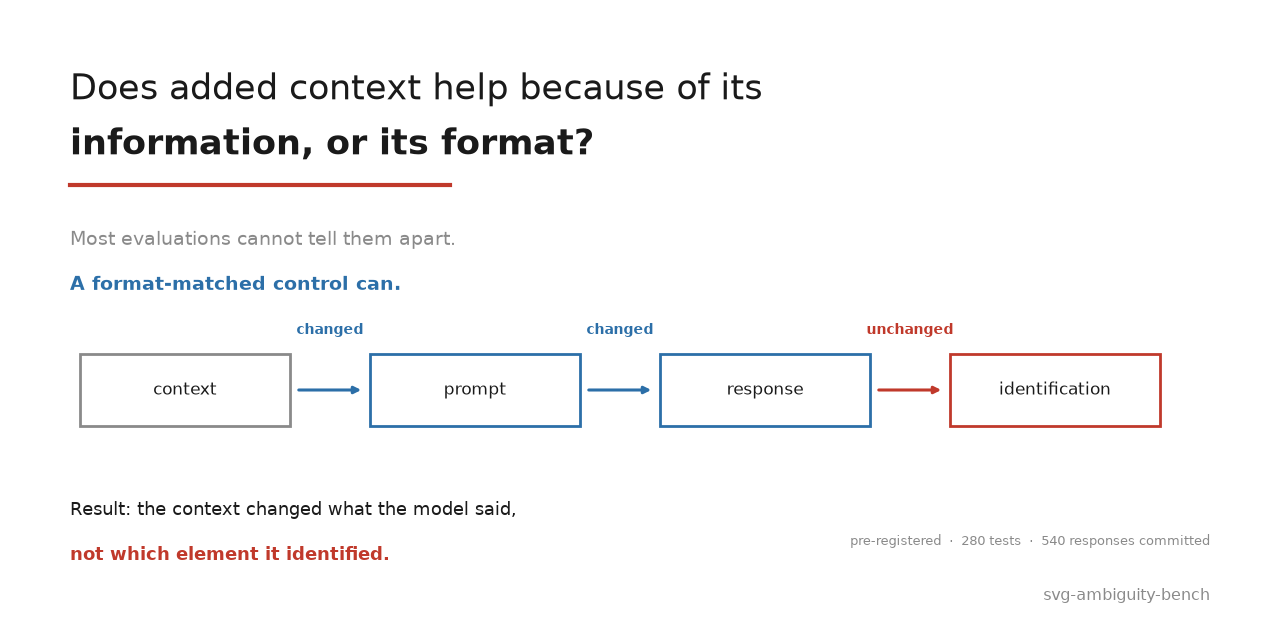
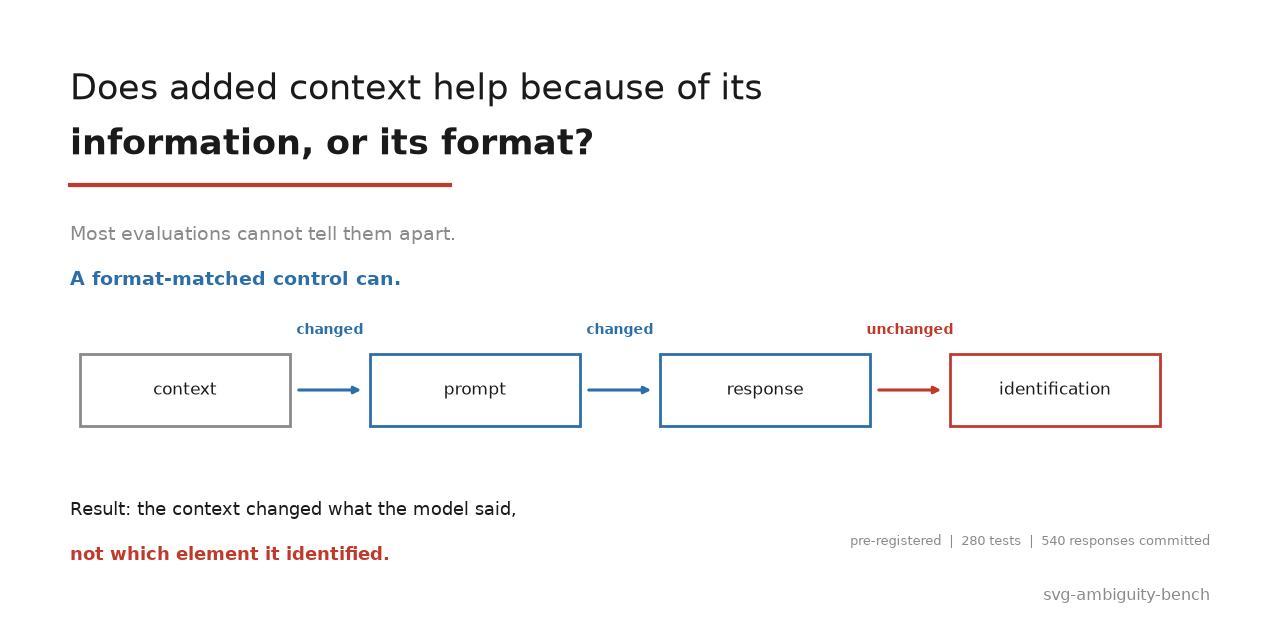
Fix lint in the social-preview script
Committed a script that failed the repository's own ruff configuration -
semicolon-joined statements, unsorted imports, long lines. Rewritten to the
same standard as everything else in scripts/, with the label offset
documented rather than left as a magic number.

Changed region(s): [[0.0625, 0.3438, 0.3438, 0.4688]]

diff --git a/scripts/make_social_preview.py b/scripts/make_social_preview.py
@@ -1,38 +1,111 @@
-"""GitHub social preview: 1280x640, readable at thumbnail size."""
-import matplotlib; matplotlib.use("Agg")
+"""Generate the GitHub social preview image.
+
+1280x640, the size GitHub renders in link embeds. Generated from a script rather than
+drawn by hand so the numbers on it cannot drift away from the result.
+
+GitHub exposes no API for social previews, so the output must be uploaded manually under
+Settings, Social preview.
+
+Usage:
+    python scripts/make_social_preview.py
+"""
+
+from __future__ import annotations
+
+from pathlib import Path
+
+import matplotlib
 import matplotlib.pyplot as plt
 
-INK, MUTED, ACCENT, COOL = "#1a1a1a", "#8a8a8a", "#c0392b", "#2c6fa8"
-fig = plt.figure(figsize=(12.8, 6.4), dpi=100)
-fig.patch.set_facecolor("white")
-ax = fig.add_axes([0, 0, 1, 1]); ax.axis("off"); ax.set_xlim(0, 128); ax.set_ylim(0, 64)
+matplotlib.use("Agg")
 
-ax.text(7, 55, "Does added context help because of its", fontsize=25, color=INK, va="center")
-ax.text(7, 49.5, "information, or its format?", fontsize=25, color=INK, va="center", fontweight="bold")
-ax.plot([7, 45], [45.5, 45.5], color=ACCENT, linewidth=3)
-ax.text(7, 40, "Most evaluations cannot tell them apart.", fontsize=13.5, color=MUTED, va="center")
-ax.text(7, 35.5, "A format-matched control can.", fontsize=13.5, color=COOL, va="center", fontweight="bold")
+REPO_ROOT = Path(__file__).resolve().parents[1]
+OUT = REPO_ROOT / "assets" / "social-preview.png"
 
-# the chain, compact
-y = 25
-for i, (label, verdict, col) in enumerate([
-    ("context", "", MUTED), ("prompt", "changed", COOL),
-    ("response", "changed", COOL), ("identification", "unchanged", ACCENT)]):
-    x = 8 + i * 29
-    ax.add_patch(plt.Rectangle((x, y - 3.6), 21, 7.2, facecolor="white",
-                               edgecolor=col, linewidth=2))
-    ax.text(x + 10.5, y, label, ha="center", va="center", fontsize=12.5, color=INK)
-    if i:
-        ax.annotate("", xy=(x - 0.6, y), xytext=(x - 7.4, y),
-                    arrowprops={"arrowstyle": "-|>", "color": col, "linewidth": 2.2})
-        ax.text(x - 4, y + 5.6, verdict, ha="center", fontsize=10,
-                color=col, fontweight="bold")
+INK = "#1a1a1a"
+MUTED = "#8a8a8a"
+ACCENT = "#c0392b"
+COOL = "#2c6fa8"
 
-ax.text(7, 12.5, "Result: the context changed what the model said,", fontsize=13, color=INK)
-ax.text(7, 8, "not which element it identified.", fontsize=13, color=ACCENT, fontweight="bold")
-ax.text(121, 4, "svg-ambiguity-bench", fontsize=11.5, color=MUTED, ha="right")
-ax.text(121, 9.5, "pre-registered  ·  280 tests  ·  540 responses committed",
-        fontsize=9, color=MUTED, ha="right")
+# The chain, with the verdict measured at each link.
+STAGES = (
+    ("context", "", MUTED),
+    ("prompt", "changed", COOL),
+    ("response", "changed", COOL),
+    ("identification", "unchanged", ACCENT),
+)
 
-fig.savefig("assets/social-preview.png", facecolor="white")
-print("assets/social-preview.png written (1280x640)")
+
+def main() -> int:
+    figure = plt.figure(figsize=(12.8, 6.4), dpi=100)
+    figure.patch.set_facecolor("white")
+    axis = figure.add_axes((0, 0, 1, 1))
+    axis.axis("off")
+    axis.set_xlim(0, 128)
+    axis.set_ylim(0, 64)
+
+    axis.text(7, 55, "Does added context help because of its", fontsize=25, color=INK, va="center")
+    axis.text(
+        7,
+        49.5,
+        "information, or its format?",
+        fontsize=25,
+        color=INK,
+        va="center",
+        fontweight="bold",
+    )
+    axis.plot([7, 45], [45.5, 45.5], color=ACCENT, linewidth=3)
+    axis.text(7, 40, "Most evaluations cannot tell them apart.", fontsize=13.5, color=MUTED)
+    axis.text(
+        7, 35.5, "A format-matched control can.", fontsize=13.5, color=COOL, fontweight="bold"
+    )
+
+    y = 25
+    for index, (label, verdict, colour) in enumerate(STAGES):
+        x = 8 + index * 29
+        axis.add_patch(
+            plt.Rectangle((x, y - 3.6), 21, 7.2, facecolor="white", edgecolor=colour, linewidth=2)
+        )
+        axis.text(x + 10.5, y, label, ha="center", va="center", fontsize=12.5, color=INK)
+        if index:
+            axis.annotate(
+                "",
+                xy=(x - 0.6, y),
+                xytext=(x - 7.4, y),
+                arrowprops={"arrowstyle": "-|>", "color": colour, "linewidth": 2.2},
+            )
+            # Well clear of the box edge; at thumbnail size a collision here reads as a
+            # rendering fault rather than as a label.
+            axis.text(
+                x - 4,
+                y + 5.6,
+                verdict,
+                ha="center",
+                fontsize=10,
+                color=colour,
+                fontweight="bold",
+            )
+
+    axis.text(7, 12.5, "Result: the context changed what the model said,", fontsize=13, color=INK)
+    axis.text(
+        7, 8, "not which element it identified.", fontsize=13, color=ACCENT, fontweight="bold"
+    )
+    axis.text(
+        121,
+        9.5,
+        "pre-registered  |  280 tests  |  540 responses committed",
+        fontsize=9,
+        color=MUTED,
+        ha="right",
+    )
+    axis.text(121, 4, "svg-ambiguity-bench", fontsize=11.5, color=MUTED, ha="right")
+
+    OUT.parent.mkdir(parents=True, exist_ok=True)
+    figure.savefig(OUT, facecolor="white")
+    plt.close(figure)
+    print(f"wrote {OUT.relative_to(REPO_ROOT)} (1280x640)")
+    return 0
+
+
+if __name__ == "__main__":
+    raise SystemExit(main())

diff --git a/METHOD.md b/METHOD.md
@@ -90,7 +90,7 @@ Domain-independent. Roughly forty lines.
 ```python
 def permuted_context(entities, facts, seed, entity_key) -> str:
     """Format-identical to the enhanced context; entity→fact mapping destroyed."""
-    rows = [(e, facts[e]) for e in entities]           # document order preserved
+    rows = [(e, facts[e]) for e in entities]  # document order preserved
     values = [f for _, f in rows]
 
     # Seed from the ITEM, not the corpus seed, so the shuffle cannot correlate
@@ -101,9 +101,9 @@ def permuted_context(entities, facts, seed, entity_key) -> str:
     for _ in range(32):
         rng.shuffle(shuffled)
         if any(a != b for a, b in zip(values, shuffled)):
-            break        # an identity permutation would silently recreate `enhanced`
+            break  # an identity permutation would silently recreate `enhanced`
 
-    return render(zip([e for e, _ in rows], shuffled))   # SAME renderer as enhanced
+    return render(zip([e for e, _ in rows], shuffled))  # SAME renderer as enhanced
 ```
 
 Two details that are easy to get wrong and load-bearing:
